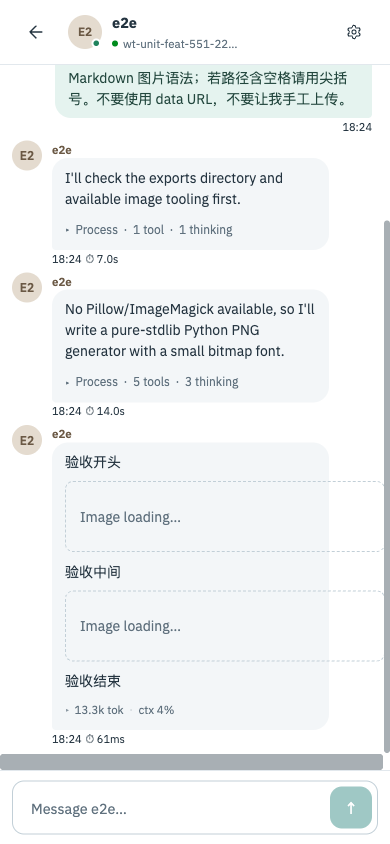
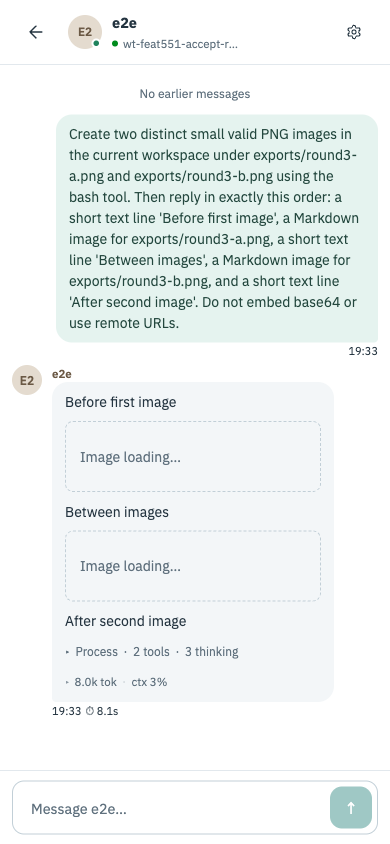
docs(feat-551): close mobile overflow acceptance

Changed region(s): [[0.0308, 0.0308, 1.0, 0.8934], [0.0, 0.5853, 0.9846, 0.9242], [0.4923, 0.7701, 0.6154, 0.8009]]

diff --git a/docs/changes/feat-551-agent-reply-images/acceptance.md b/docs/changes/feat-551-agent-reply-images/acceptance.md
@@ -183,3 +183,80 @@ R1-S1、R1-S2、R2-S1、R2-S2、R3-S1、R3-S2、R4-S3、R5-S1、R5-S2 均继承 
 - [x] `docs/specs/gateway/`、`docs/specs/im/`：**需要更新**；继续由 orchestrator 将 unit delta 归并 canonical，本轮没有新增产品契约。
 - [x] `AGENTS.md` / `CLAUDE.md`：**无需更新**。
 - [x] `docs/specs/CONTRIBUTING.md`：**无需更新**。
+
+---
+
+# Round 3 — 2026-09-10
+
+> Validation snapshot: `4862b53f6655ede1e2ac1b0c9b1eca6b8306b6b4`
+
+> Mode: Fast-lane targeted revalidation
+
+> Focus: V1-C1；390×844 真实 Web IM pending/error 状态必须位于同一 Agent 气泡内，且页面与真实消息滚动区均无水平溢出
+
+## Verdict
+
+**pass**
+
+**Highest Required Action: pass**
+
+V1-C1 在当前 validated head 上关闭。Round 2 发现的移动端状态块超出 Agent 气泡问题已不再出现；两张持久化移动证据已用当前 head 的真实产品截图替换。
+
+## Fast-lane 定向旅程
+
+1. **环境与真实回复**
+   - 从 `4862b53f6` 在独立临时 worktree 重建前端，构建通过；隔离、非飞书 IM + Gateway 在 `55343` 端口和专属 tmux 会话中运行，未触碰生产 `:8011` 或其他测试栈。IM 实际托管的 `index-yMRqOR1_.js` 与本轮 build 产物 SHA-256 同为 `9d1c493e…84b0`。
+   - 真实 Agent 调用工具在其隔离 workspace 的 `exports/` 下生成两张有效 PNG，并在同一条回复中按“Before first image → 图 A → Between images → 图 B → After second image”返回。owner 浏览器对两条私有图片 GET 均曾真实取得 `200 OK`。
+
+2. **390×844 loading**
+   - 对同一 owner 浏览器的两条真实 `/im/v1/conversations/.../images/...` GET 施加 45 秒受控延迟，刷新后同时观察到两个 `Image loading…`。
+   - 两个状态块矩形分别为 `(x=65, width=256.078)`，并且均只有一个 `.chat-bubble-card` 祖先；同一 Agent 气泡矩形为 `(x=52, width=282.078)`，因而两个状态的左右边界都完全位于该气泡内。
+   - 真实消息滚动区 `.chat-pane-messages` 的 `clientWidth/scrollWidth` 为 `390/390`；`documentElement` 为 `390/390`，无水平溢出。
+
+3. **390×844 error**
+   - 对同两条真实私有 GET 施加受控 abort，网络记录为两个 `net::ERR_FAILED`；页面同时显示两个 `Image could not be displayed: loading failed` 和两个 `Retry loading`。
+   - 两个状态块矩形分别为 `(x=65, width=250.797)`，并且均只有一个 `.chat-bubble-card` 祖先；同一 Agent 气泡矩形为 `(x=52, width=276.797)`，左右边界全部被包含。
+   - 出现纵向滚动条后，`.chat-pane-messages` 的 `clientWidth/scrollWidth` 为 `384/384`；`documentElement` 仍为 `390/390`，无水平溢出。
+
+4. **持久证据与目视复核**
+   - `M1-reply-images/evidence/web-im-mobile-loading.png`：390×844，SHA-256 `6bed79ae…8c07ac`。
+   - `M1-reply-images/evidence/web-im-mobile-error.png`：390×844，SHA-256 `85d3b684…cb488`。
+   - 两张图均已以原始像素目视检查：两个状态按原引用顺序位于同一 Agent 气泡内，前/中/后正文可读，未见水平滚动条、破图图标或气泡外溢出。
+
+## Reference Artifacts Reviewed
+
+| Reference | Required contract | Durable actual product evidence | Viewport / state | Comparison conclusion |
+|---|---|---|---|---|
+| `prototype.html#reply` pending | V1-C1 / R4-S1：pending 位于同一 Agent 气泡内，移动端无水平溢出 | `M1-reply-images/evidence/web-im-mobile-loading.png` | 390×844；loading | **match**：2 个状态都被唯一的同一气泡包含；滚动区与根文档 `scrollWidth === clientWidth`。 |
+| `prototype.html#reply` error | V1-C1 / R4-S2：error 位于同一 Agent 气泡内，Retry 可见，移动端无水平溢出 | `M1-reply-images/evidence/web-im-mobile-error.png` | 390×844；error | **match**：2 个状态都被唯一的同一气泡包含，2 个 Retry 可见；滚动区与根文档 `scrollWidth === clientWidth`。 |
+
+## 问题清单
+
+无。
+
+| # | 严重度 | 现象 | Regression Relation | Recommended Action | Action Rationale |
+|---|---|---|---|---|---|
+| — | — | 未发现问题 | — | pass | V1-C1 的真实 390×844 loading/error 旅程、DOM 包含关系与宽度测量全部通过。 |
+
+## 验收标准覆盖（Fast-lane 更新）
+
+### V1-C1 移动端 pending/error 气泡边界与水平溢出 — 定向结论: pass
+
+| 验证点 | 本轮验证方式 | 本轮证据 | 结果 | 备注 |
+|---|---|---|---|---|
+| loading 在同一 Agent 气泡内 | 延迟两条真实 owner 图片 GET；对每个状态与最近 `.chat-bubble-card` 做实测 | `web-im-mobile-loading.png`；2 组 state/card 矩形 | pass | 两个状态共享同一 card，左右边界均在 card 内。 |
+| error 在同一 Agent 气泡内 | abort 两条真实 owner 图片 GET；对状态/card 做实测并统计 Retry | `web-im-mobile-error.png`；2 组 state/card 矩形；2 个 Retry | pass | 两个状态共享同一 card，左右边界均在 card 内。 |
+| 无水平溢出 | 分别读取 `documentElement` 与实际 `.chat-pane-messages` 的 client/scroll width | loading `390/390`；error 滚动区 `384/384`、根文档 `390/390` | pass | error 的 6px 差值为可见纵向滚动条，不是水平溢出。 |
+
+Round 2 的其他定向结论以及 Round 1 其余 Scenario 均继承已有 `pass`；本轮仅关闭 V1-C1，没有扩展验收范围。
+
+## Side Findings
+
+无。
+
+## 上层文档同步
+
+- [x] `SPEC.md`：**无需更新**；本轮不改变产品或跨包契约。
+- [x] `docs/specs/gateway/`、`docs/specs/im/`：**无新增验收 delta**；继续由 orchestrator 处理已有 unit delta 的 canonical 归并。
+- [x] `AGENTS.md` / `CLAUDE.md`：**无需更新**。
+- [x] `docs/specs/CONTRIBUTING.md`：**无需更新**。
